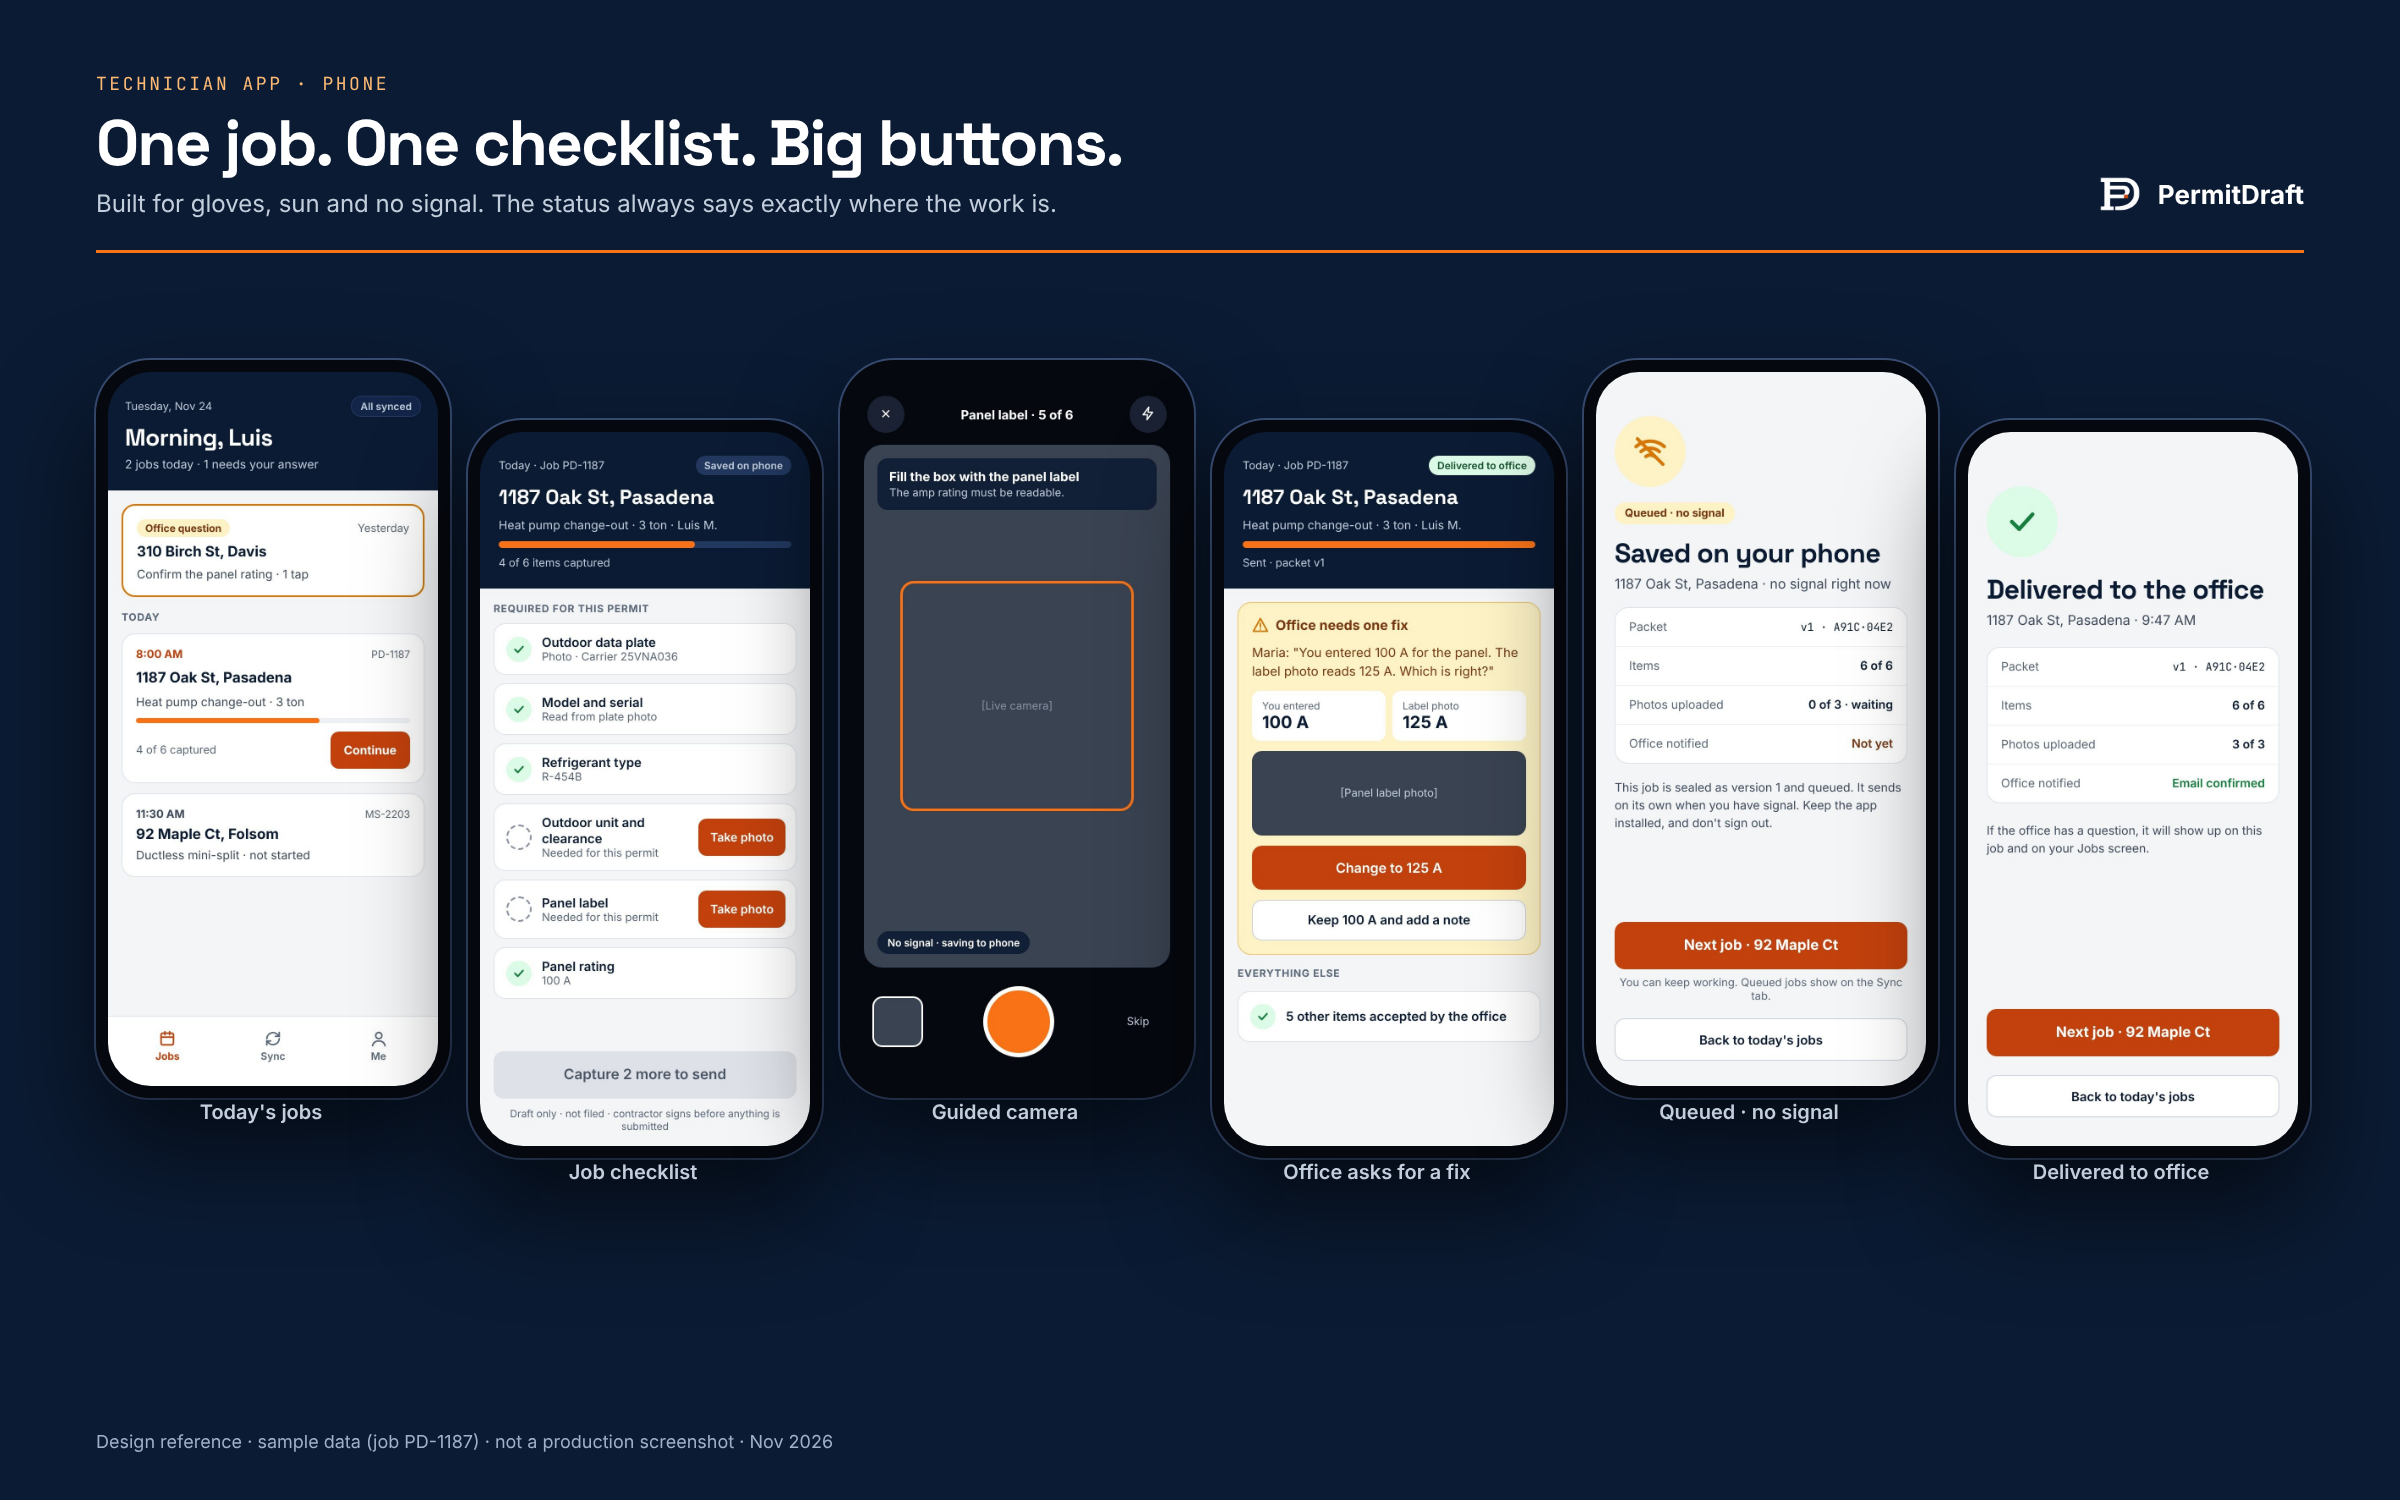
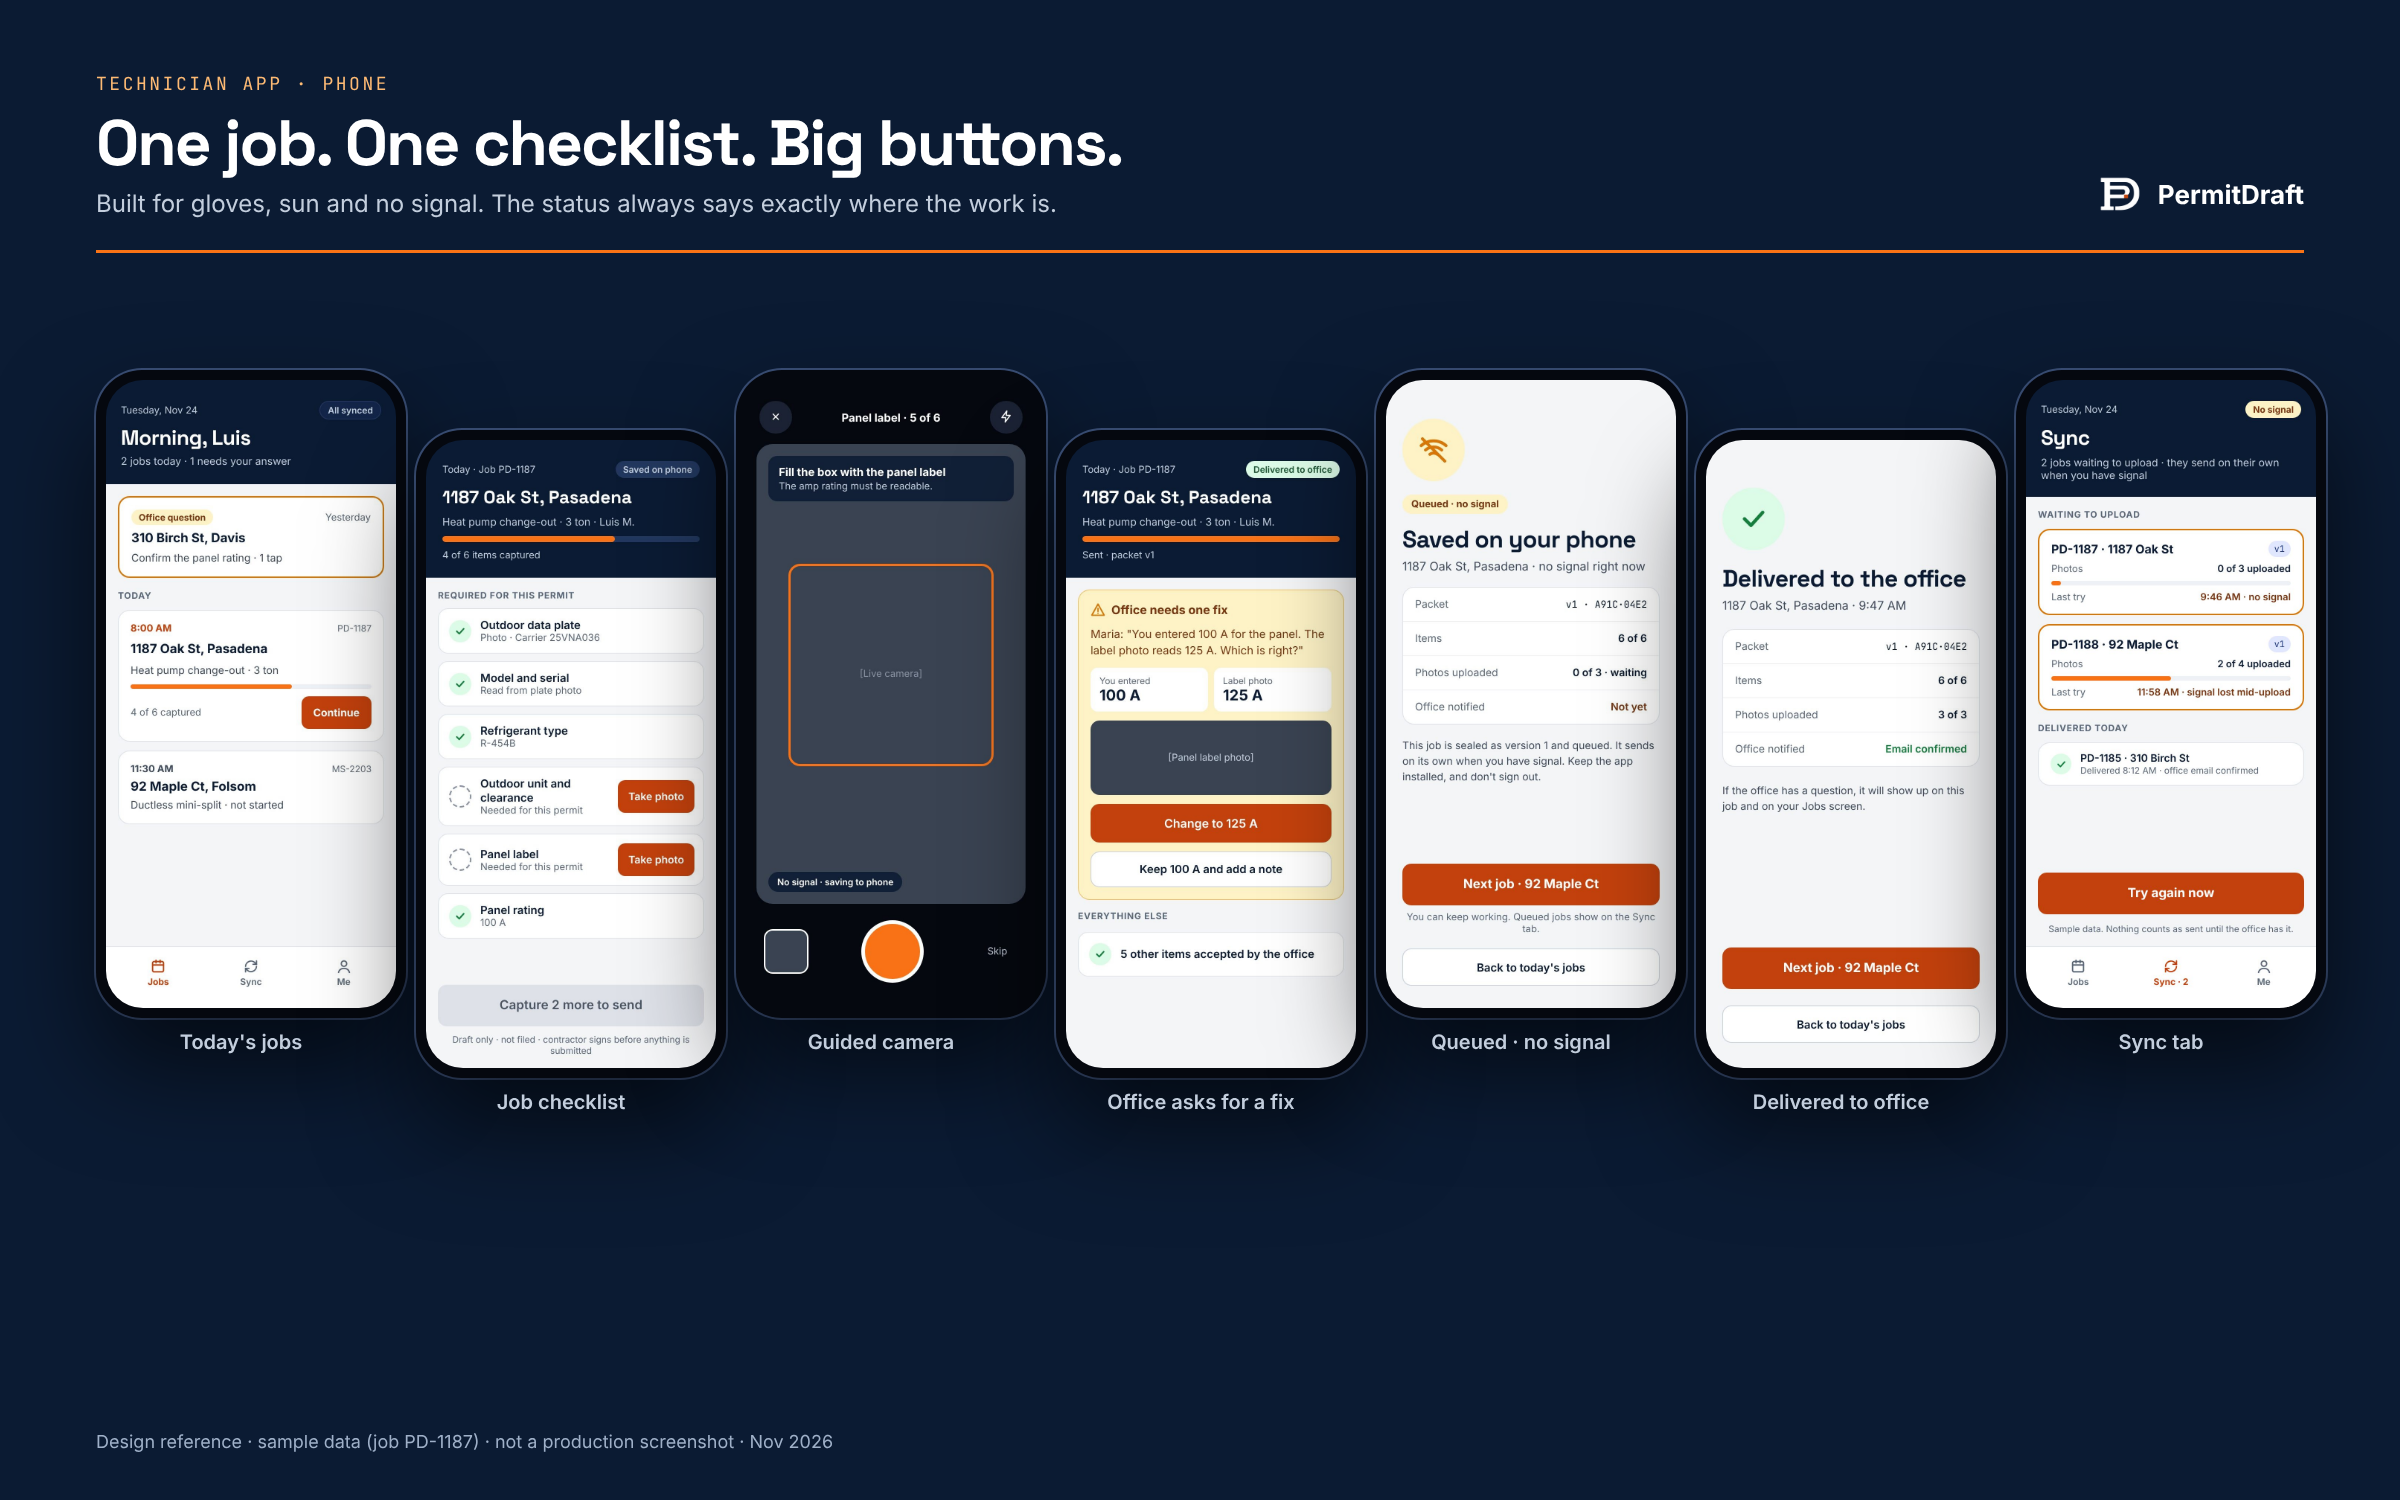
Round 11: technician Sync tab screen; board 3 with all 7 screens
Claude-Session: https://claude.ai/code/session_01Q4SFfZdAQ2PeUcG99Xwb29

Changed region(s): [[0.0312, 0.2147, 0.9688, 0.7973]]

diff --git a/docs/design/mockups/TechSync.dc.html b/docs/design/mockups/TechSync.dc.html
@@ -1,0 +1,59 @@
+<!doctype html>
+<html lang="en">
+<head>
+<meta charset="utf-8">
+<title>Tech — sync (queued jobs)</title>
+<script src="./support.js"></script>
+</head>
+<body>
+<x-dc>
+<helmet>
+<link rel="stylesheet" href="https://fonts.googleapis.com/css2?family=Inter:wght@400;500;600;700&amp;family=Space+Grotesk:wght@600;700&amp;family=JetBrains+Mono:wght@500&amp;display=swap">
+<style>
+body{margin:0}
+h1,h2,p{margin:0}
+</style>
+</helmet>
+<div style="width: 390px; height: 844px; box-sizing: border-box; background: #F4F5F7; font-family: Inter, sans-serif; color: #0B1B33; display: flex; flex-direction: column; overflow: hidden">
+<div style="background: #0B1B33; color: #fff; padding: 28px 20px 20px; display: flex; flex-direction: column; gap: 8px">
+<div style="display: flex; justify-content: space-between; align-items: center"><span style="font-size: 13px; color: #C3CEDD">Tuesday, Nov 24</span><span style="padding: 4px 10px; border-radius: 99px; background: #FEF3C7; color: #78350F; font-size: 12px; font-weight: 700">No signal</span></div>
+<h1 style="font-family: 'Space Grotesk', sans-serif; font-size: 28px; letter-spacing: -0.02em">Sync</h1>
+<p style="font-size: 14px; color: #C3CEDD">2 jobs waiting to upload · they send on their own when you have signal</p>
+</div>
+<div style="padding: 16px; display: flex; flex-direction: column; gap: 12px; flex: 1">
+<p style="font-size: 12px; font-weight: 700; letter-spacing: 0.06em; color: #5A6779; text-transform: uppercase">Waiting to upload</p>
+<div style="background: #fff; border: 2px solid #D97706; border-radius: 16px; padding: 14px 16px; display: flex; flex-direction: column; gap: 8px">
+<div style="display: flex; justify-content: space-between; align-items: center"><span style="font-weight: 700; font-size: 16px">PD-1187 · 1187 Oak St</span><span style="font-family: 'JetBrains Mono', monospace; font-size: 12px; background: #E0E7FF; color: #1E3A8A; border-radius: 99px; padding: 3px 8px">v1</span></div>
+<div style="display: flex; justify-content: space-between; font-size: 13px"><span style="color: #5A6779">Photos</span><span style="font-weight: 600">0 of 3 uploaded</span></div>
+<div style="height: 6px; border-radius: 9px; background: #EEF1F5"><div style="width: 4%; height: 100%; border-radius: 9px; background: #F97316"></div></div>
+<div style="display: flex; justify-content: space-between; font-size: 13px"><span style="color: #5A6779">Last try</span><span style="font-weight: 600; color: #78350F">9:46 AM · no signal</span></div>
+</div>
+<div style="background: #fff; border: 2px solid #D97706; border-radius: 16px; padding: 14px 16px; display: flex; flex-direction: column; gap: 8px">
+<div style="display: flex; justify-content: space-between; align-items: center"><span style="font-weight: 700; font-size: 16px">PD-1188 · 92 Maple Ct</span><span style="font-family: 'JetBrains Mono', monospace; font-size: 12px; background: #E0E7FF; color: #1E3A8A; border-radius: 99px; padding: 3px 8px">v1</span></div>
+<div style="display: flex; justify-content: space-between; font-size: 13px"><span style="color: #5A6779">Photos</span><span style="font-weight: 600">2 of 4 uploaded</span></div>
+<div style="height: 6px; border-radius: 9px; background: #EEF1F5"><div style="width: 50%; height: 100%; border-radius: 9px; background: #F97316"></div></div>
+<div style="display: flex; justify-content: space-between; font-size: 13px"><span style="color: #5A6779">Last try</span><span style="font-weight: 600; color: #78350F">11:58 AM · signal lost mid-upload</span></div>
+</div>
+<p style="font-size: 12px; font-weight: 700; letter-spacing: 0.06em; color: #5A6779; text-transform: uppercase; margin-top: 4px">Delivered today</p>
+<div style="background: #fff; border: 1px solid #DFE4EB; border-radius: 16px; padding: 12px 16px; display: flex; align-items: center; gap: 12px">
+<span style="width: 28px; height: 28px; flex: none; border-radius: 99px; background: #DCFCE7; display: flex; align-items: center; justify-content: center"><svg width="15" height="15" viewBox="0 0 24 24" fill="none" stroke="#15803D" stroke-width="3" stroke-linecap="round" stroke-linejoin="round" aria-hidden="true"><path d="M5 12l5 5 9-10"/></svg></span>
+<div style="flex: 1"><p style="font-weight: 600; font-size: 14px">PD-1185 · 310 Birch St</p><p style="font-size: 12px; color: #5A6779">Delivered 8:12 AM · office email confirmed</p></div>
+</div>
+<div style="flex: 1"></div>
+<button type="button" style="min-height: 56px; border-radius: 12px; border: 0; background: #C2410C; color: #fff; font: 700 17px Inter, sans-serif">Try again now</button>
+<p style="font-size: 12px; color: #5A6779; text-align: center">Sample data. Nothing counts as sent until the office has it.</p>
+</div>
+<nav aria-label="App" style="background: #fff; border-top: 1px solid #DFE4EB; display: grid; grid-template-columns: repeat(3, minmax(0, 1fr)); padding: 8px 8px 22px">
+<a href="#" style="min-height: 52px; display: flex; flex-direction: column; align-items: center; justify-content: center; gap: 2px; color: #5A6779; font-size: 12px; font-weight: 600; text-decoration: none"><svg width="22" height="22" viewBox="0 0 24 24" fill="none" stroke="currentColor" stroke-width="2" stroke-linecap="round" aria-hidden="true"><rect x="4" y="5" width="16" height="15" rx="2"/><path d="M4 10h16M9 3v4M15 3v4"/></svg>Jobs</a>
+<a href="#" aria-current="page" style="min-height: 52px; display: flex; flex-direction: column; align-items: center; justify-content: center; gap: 2px; color: #C2410C; font-size: 12px; font-weight: 700; text-decoration: none; position: relative"><svg width="22" height="22" viewBox="0 0 24 24" fill="none" stroke="currentColor" stroke-width="2" stroke-linecap="round" aria-hidden="true"><path d="M4 12a8 8 0 0114-5l2 2M20 12a8 8 0 01-14 5l-2-2"/><path d="M20 4v5h-5M4 20v-5h5"/></svg>Sync · 2</a>
+<a href="#" style="min-height: 52px; display: flex; flex-direction: column; align-items: center; justify-content: center; gap: 2px; color: #5A6779; font-size: 12px; font-weight: 600; text-decoration: none"><svg width="22" height="22" viewBox="0 0 24 24" fill="none" stroke="currentColor" stroke-width="2" stroke-linecap="round" aria-hidden="true"><circle cx="12" cy="8" r="4"/><path d="M4 21c1-4 4-6 8-6s7 2 8 6"/></svg>Me</a>
+</nav>
+</div>
+</x-dc>
+<script type="text/x-dc" data-dc-script data-props='{"$preview":{"width":390,"height":844}}'>
+class Component extends DCLogic {
+  renderVals() { return {}; }
+}
+</script>
+</body>
+</html>

diff --git a/docs/design/MOBILE_APP_PROMPT.md b/docs/design/MOBILE_APP_PROMPT.md
@@ -86,10 +86,13 @@ You are building the **technician app** for PermitDraft, a phone app HVAC techni
 - **Receipt:** Packet v1 · fingerprint · Items · Photos uploaded 3 of 3 · Office notified "Email confirmed".
 - **Buttons:** **Next job · {address}** (primary) and **Back to today's jobs**.
 
-### Sync tab (no mockup yet; build from the same components)
-- A list of queued packets, each with its job, version, photos waiting, and last attempt time.
-- A **Try again now** button.
-- A note: "Queued jobs send automatically when you have signal."
+### 7. Sync tab: `renders/round11/tech-7-sync.jpg`
+- **Navy header:** "Sync", a "No signal" pill when offline, and "N jobs waiting to upload · they send on their own when you have signal".
+- **"Waiting to upload":** one amber-bordered card per queued packet, showing job ID and address, a version chip, a photos progress bar ("2 of 4 uploaded"), and the last try time and reason ("signal lost mid-upload").
+- **"Delivered today":** green-check rows, each with "office email confirmed".
+- A 56 px **Try again now** button.
+- The note "Nothing counts as sent until the office has it."
+- The tab label shows a count ("Sync · 2").
 
 ## Behavior
 - **Sealing:** tapping Send seals a numbered version (v1, v2…) with a fingerprint: a hash of the fields plus the photo hashes. Edits after sending create a new version.

diff --git a/docs/design/review/FINAL_CHECKLIST.md b/docs/design/review/FINAL_CHECKLIST.md
@@ -7,7 +7,7 @@ Set by Sam on Nov 24 at 1:14 PM PT: **24 hours to finalize the design.** Every d
 |---|---|---|---|
 | 1 | Homepage, final direction, at 320 / 390 / 768 / 1024 / 1440 | Claude | A done (Rounds 3–6); board shipped; waiting on Sam's A/B pick |
 | 2 | Office portal: sign in, dashboard, review, contractor signing (desktop + phone/tablet) | Claude | Done: review (Round 8), sign-in and signing (Round 4), dashboard at 1440/1024/768/390 (Round 10) |
-| 3 | Technician app: jobs, checklist, camera, office fix, queued, sent | Claude | In progress |
+| 3 | Technician app: jobs, checklist, camera, office fix, queued, sent, Sync tab | Claude | 7 of 7 screens designed (Sync tab added in Round 11); camera polish by 6 PM |
 | 4 | Polished visual mockups of 1–3 from `VISUAL_BRIEF.md`, sent to Sam | **ChatGPT** | Not yet posted; brief updated in Round 7 (real logo, 5 steps, queued screen) |
 | 5 | Specs match the mockups: `SCREENS.md`, `DESIGN_SYSTEM.md`, tokens | Claude | Updated Round 6 |
 | 6 | Accessibility: contrast ≥ 4.5:1, focus rings, 44/56 px targets, no essential text < 12 px | Claude + Codex | Passing on A; re-check all screens |

diff --git a/docs/design/review/claude-notes.md b/docs/design/review/claude-notes.md
@@ -1,5 +1,8 @@
 # Claude design notes
 
+## Round 11 — Nov 24, 2026, 2:55 PM PT
+**Shipped:** the **Sync tab** (`mockups/TechSync.dc.html`, render `renders/round11/tech-7-sync.jpg`). It lists queued packets with photo progress and the last try and its reason, plus jobs delivered today, and has a **Try again now** button. It's added to `MOBILE_APP_PROMPT.md` (screen 7), to `SCREENS.md` C6 and to board 3, which now shows all 7 technician screens.
+
 ## Round 10b — Nov 24, 2026, 2:35 PM PT
 Sam: the desktop office portal must be configured **for desktop, not mobile**, which is critical. The dashboard now locks to a true desktop layout at ≥ 1200 px:
 - 6 KPI cards in one row, at 24 px so "$86,420" fits

diff --git a/docs/design/SCREENS.md b/docs/design/SCREENS.md
@@ -177,5 +177,14 @@ It never says "sent" until the server confirms.
 
 ---
 
+### C6. Sync tab (`TechSync.dc.html`)
+- Lists queued packets: job, version, photos uploaded (with a progress bar) and the last try with its reason.
+- Lists jobs delivered today, each with "office email confirmed".
+- A 56 px **Try again now** button.
+- The tab label shows the waiting count.
+- Never marks a job as sent before the office has it.
+
+---
+
 ## D. Walkthrough demo (`Main.dc.html`)
 An interactive prototype of one job end to end, with a "Live back end" log. Use it as a behavior reference for statuses, versioning and notifications. It is not a production screen.
